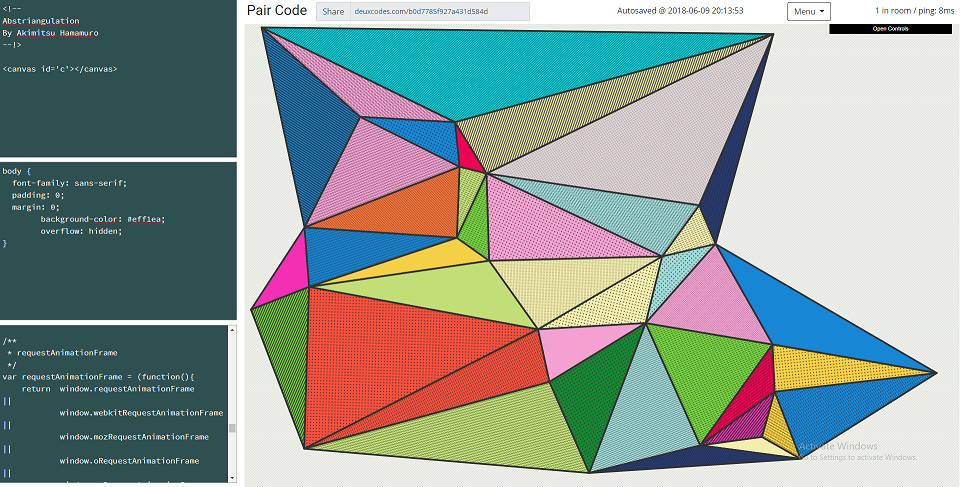
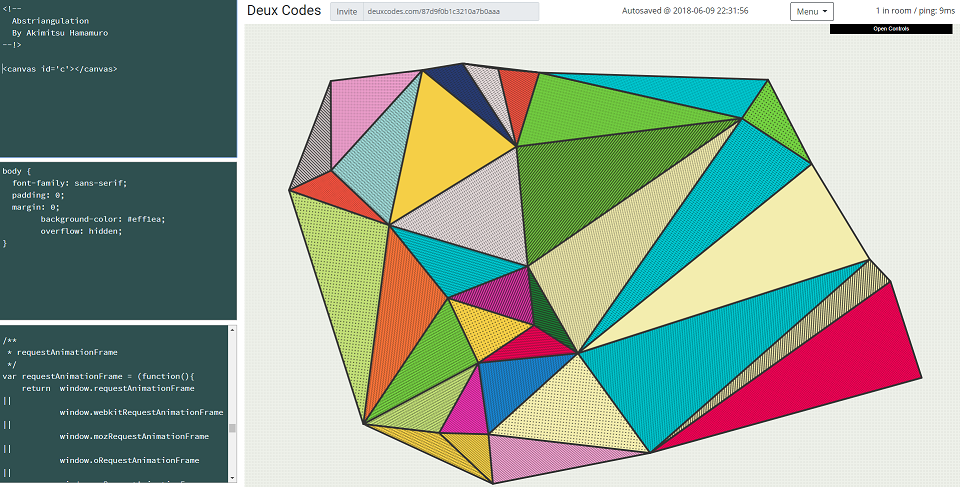
Changed project name, changed main page image

diff --git a/views/room.html b/views/room.html
@@ -25,7 +25,7 @@
       <div class="col-sm">
         <div class="input-group">
           <div class="input-group-prepend">
-            <span class="input-group-text">Share</span>
+            <span class="input-group-text">Invite</span>
           </div>
           <input type="text" class="form-control form-control-sm" value="<%-roomLink-%>" disabled>
         </div>
@@ -41,7 +41,7 @@
             Menu
           </button>
           <div class="dropdown-menu">
-              <button id="home-btn" class="dropdown-item" type="button">Home</button>
+            <button id="home-btn" class="dropdown-item" type="button">Home</button>
             <button id="fork-btn" class="dropdown-item" type="button">Fork</button>
             <button id="delete-btn" class="dropdown-item" type="button">Delete</button>
           </div>

diff --git a/public/js/room.js b/public/js/room.js
@@ -122,23 +122,6 @@ $(document).ready(() => {
         autosave.postMessage({ html: html, css: css, js: js })
     })
 
-    // Fork button logic
-    $("#fork-btn").click(() => {
-        $.ajax({
-            type: "POST",
-            url: `/room/${roomId}/save`,
-
-            // Send the latest copy of this user's code
-            data: JSON.stringify(page.getPage()),
-            contentType: "application/json; charset=utf-8",
-            dataType: "json",
-            success: (data) => { $("#last-saved").text(` ${data}`) },
-            failure: (errMsg) => {
-                alert(errMsg)
-            }
-        })
-    })
-
     // Delete button logic
     $("#delete-btn").click(() => window.location.replace(`/room/${roomId}/delete`))
 

diff --git a/app.js b/app.js
@@ -58,7 +58,7 @@ app.get('/room/:roomId', (req, res) => {
         .then(room => {
             if (room) {
                 res.render('room.html', {
-                    title: 'Pair Code',
+                    title: 'Deux Codes',
                     roomId: req.params.roomId,
                     roomLink: url + req.params.roomId,
                     html: String(room.html),
